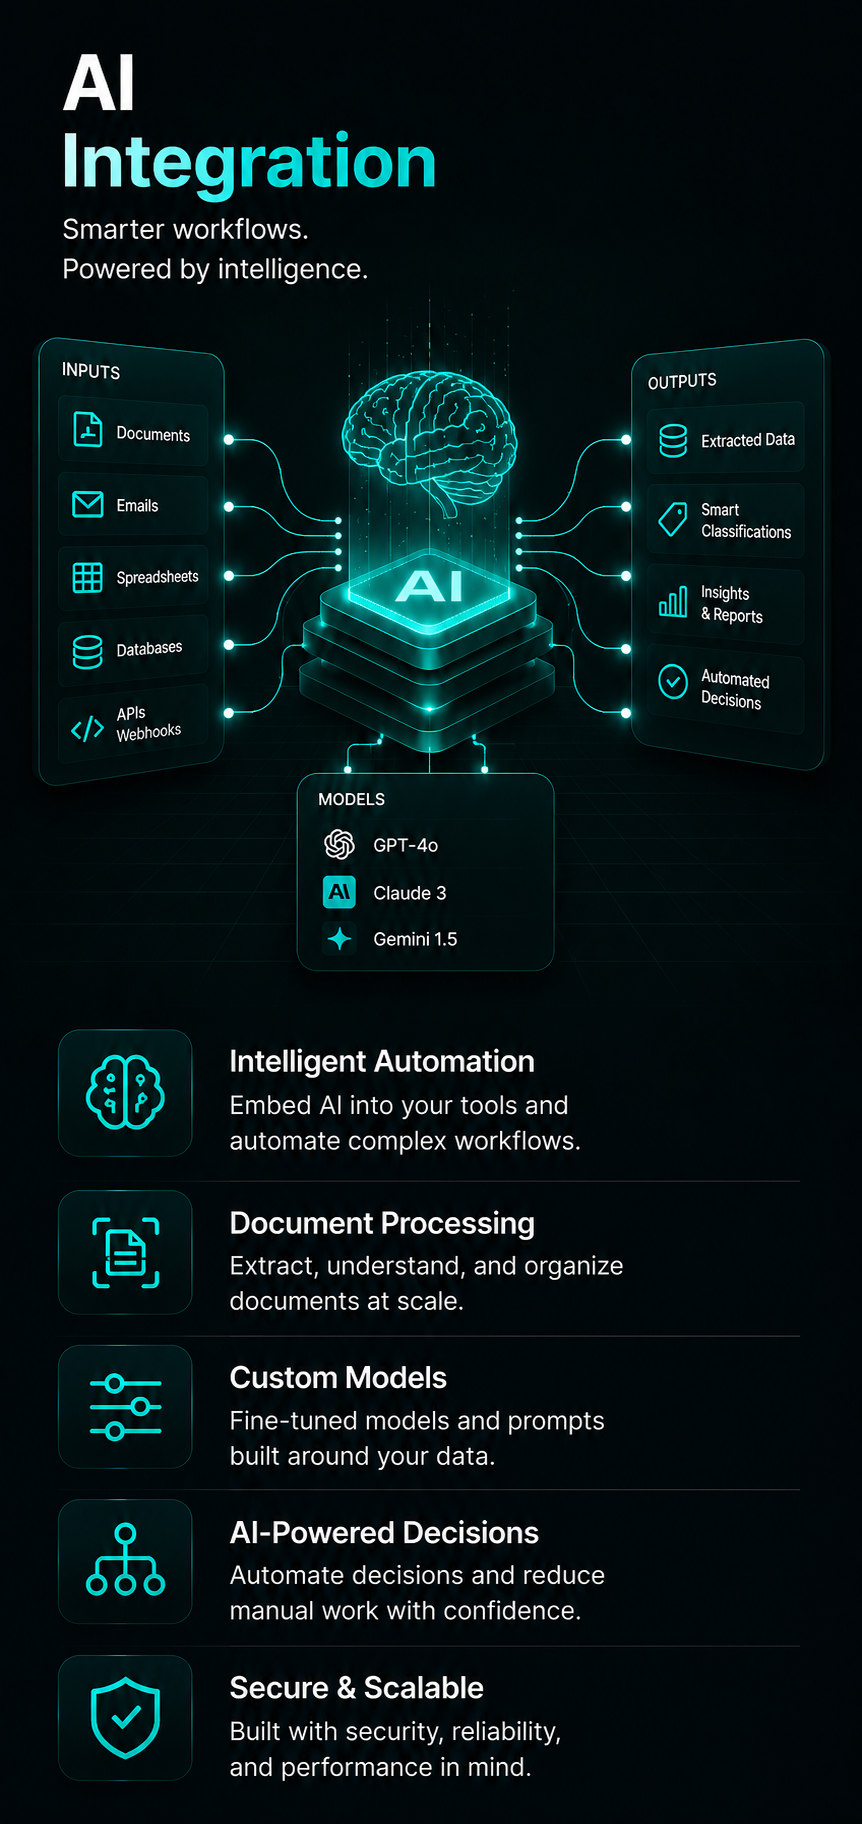
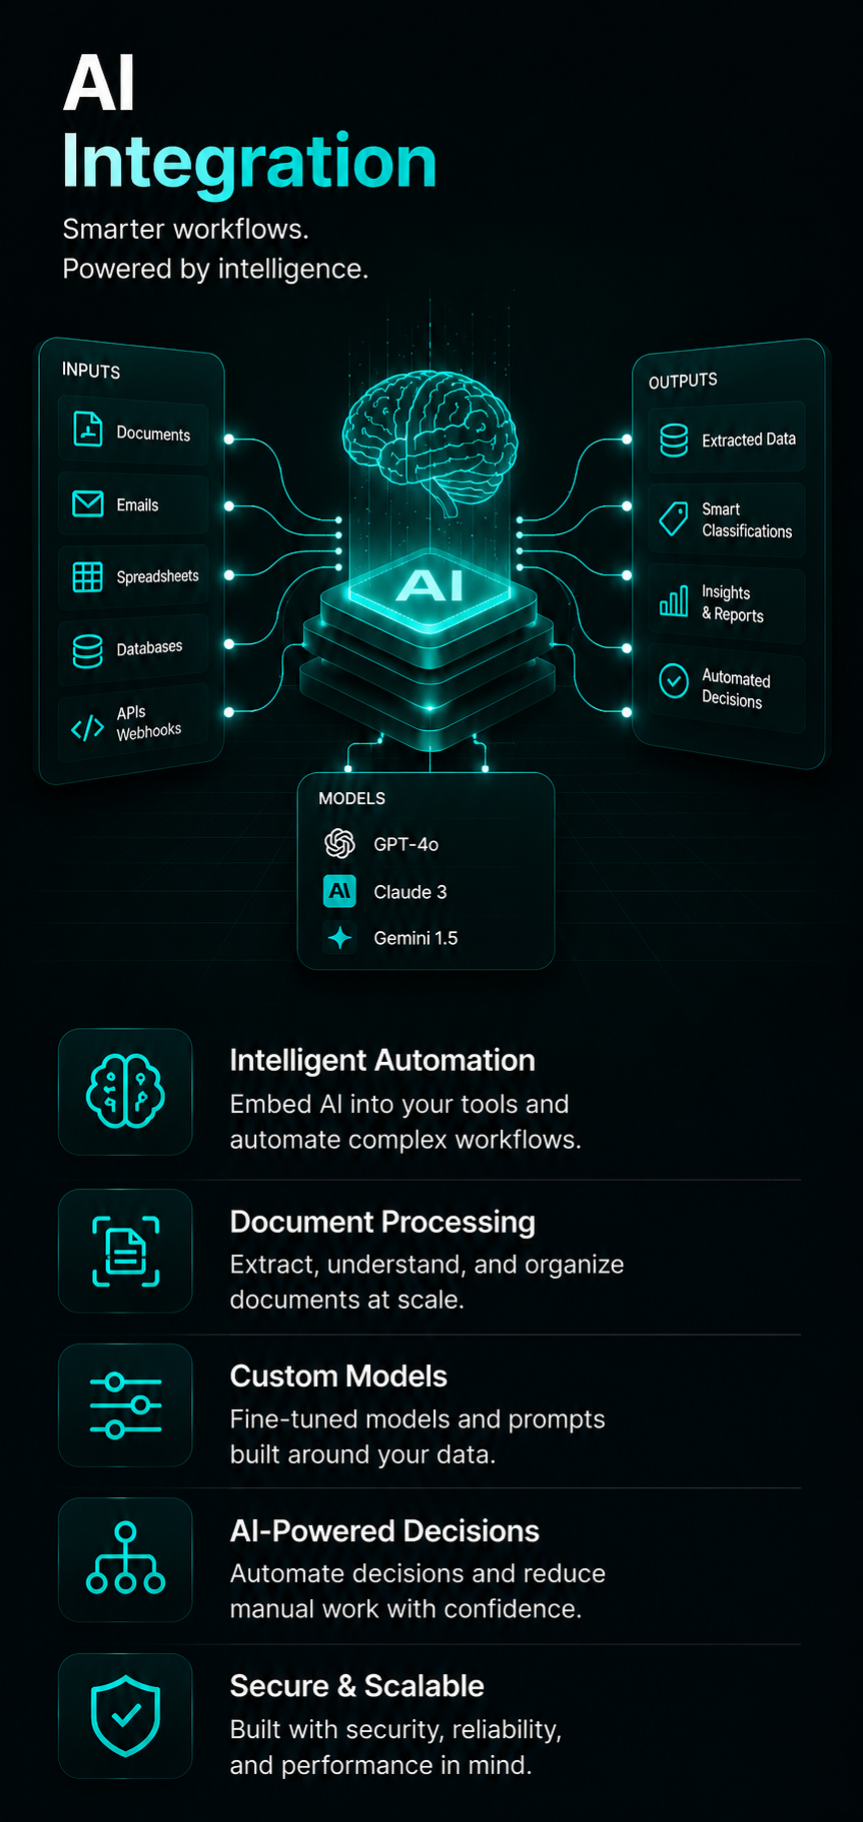
.

diff --git a/src/app/page.tsx b/src/app/page.tsx
@@ -282,6 +282,8 @@ const HeroImageSlider = () => {
   const [prevIndex, setPrevIndex] = useState<number | null>(null);
   const [progress, setProgress] = useState(0);
   const [held, setHeld] = useState(false);
+  const [hasEnteredView, setHasEnteredView] = useState(false);   // ← new
+  const containerRef = useRef<HTMLDivElement>(null);   // ← new
 
   const aspectCacheRef = useRef<Record<string, string>>({});
   const [mobileAspect, setMobileAspect] = useState<string>("3 / 4"); // fallback while loading
@@ -290,6 +292,21 @@ const HeroImageSlider = () => {
   const pausedElapsedRef = useRef<number>(0);
   const holdTimerRef = useRef<ReturnType<typeof setTimeout> | null>(null);
   const isPointerDownRef = useRef(false);
+
+  useEffect(() => {
+    if (!containerRef.current || hasEnteredView) return;
+    const observer = new IntersectionObserver(
+      ([entry]) => {
+        if (entry.isIntersecting) {
+          setHasEnteredView(true);
+          observer.disconnect();   // fire once, never again
+        }
+      },
+      { threshold: 0 }   // any portion visible
+    );
+    observer.observe(containerRef.current);
+    return () => observer.disconnect();
+  }, [hasEnteredView]);
 
   useEffect(() => {
     if (!isMobile) return;
@@ -317,7 +334,7 @@ const HeroImageSlider = () => {
 
   // main progress driver — runs whenever not held
   useEffect(() => {
-    if (held) return;
+    if (held || !hasEnteredView) return;   // ← added !hasEnteredView
     startRef.current = performance.now() - pausedElapsedRef.current;
     const tick = (now: number) => {
       const elapsed = now - startRef.current;
@@ -332,7 +349,7 @@ const HeroImageSlider = () => {
     };
     rafRef.current = requestAnimationFrame(tick);
     return () => cancelAnimationFrame(rafRef.current);
-  }, [index, held]);
+  }, [index, held, hasEnteredView]);   // ← add hasEnteredView to deps
 
   // reset paused-elapsed whenever image actually changes
   useEffect(() => { pausedElapsedRef.current = 0; }, [index]);
@@ -376,7 +393,7 @@ const HeroImageSlider = () => {
   const getSrc = (i: number) => (isMobile ? HERO_IMAGES[i].srcMobile : HERO_IMAGES[i].src);
 
   return (
-    <div className="w-full flex flex-col items-center" style={{ padding: "0 5vw", marginTop: "clamp(2rem, 6vh, 4rem)", gap: "0.9rem" }}>
+    <div ref={containerRef} className="w-full flex flex-col items-center" style={{ padding: "0 5vw", marginTop: "clamp(2rem, 6vh, 4rem)", gap: "0.9rem" }}>
 
       <div
         onPointerDown={handlePointerDown}
@@ -596,114 +613,113 @@ const HeroSection = () => {
           <source src="/medium.mp4" type="video/mp4" />
         </video>
       </div> */}
-      <HeroImageSlider />
     </DarkSection>
   );
 };
 
-// ── Services Section ──────────────────────────────────────────────────────────
-const ShineCard = ({ onDone }: { onDone: () => void }) => {
-  const [progress, setProgress] = useState(0);
-  const rafRef = useRef<number>(0);
-  const startRef = useRef<number>(0);
-  const DURATION = 1200;
+// // ── Services Section ──────────────────────────────────────────────────────────
+// const ShineCard = ({ onDone }: { onDone: () => void }) => {
+//   const [progress, setProgress] = useState(0);
+//   const rafRef = useRef<number>(0);
+//   const startRef = useRef<number>(0);
+//   const DURATION = 1200;
 
-  useEffect(() => {
-    startRef.current = performance.now();
-    const animate = (now: number) => {
-      const p = (now - startRef.current) / DURATION;
-      if (p >= 1) { setProgress(1); onDone(); return; }
-      setProgress(p);
-      rafRef.current = requestAnimationFrame(animate);
-    };
-    rafRef.current = requestAnimationFrame(animate);
-    return () => cancelAnimationFrame(rafRef.current);
-  }, []);
+//   useEffect(() => {
+//     startRef.current = performance.now();
+//     const animate = (now: number) => {
+//       const p = (now - startRef.current) / DURATION;
+//       if (p >= 1) { setProgress(1); onDone(); return; }
+//       setProgress(p);
+//       rafRef.current = requestAnimationFrame(animate);
+//     };
+//     rafRef.current = requestAnimationFrame(animate);
+//     return () => cancelAnimationFrame(rafRef.current);
+//   }, []);
 
-  return (
-    <div style={{
-      position: "absolute",
-      inset: 0,
-      pointerEvents: "none",
-      zIndex: 2,
-      overflow: "hidden",
-    }}>
-      <div style={{
-        position: "absolute",
-        top: "-150%",
-        left: "-100%",
-        width: "80%",
-        height: "400%",
-        background: "linear-gradient(105deg, transparent 25%, rgba(255,255,255,0.07) 50%, transparent 75%)",
-        transform: `translateX(${progress * 380}%) skewX(-15deg)`,
-      }} />
-    </div>
-  );
-};
+//   return (
+//     <div style={{
+//       position: "absolute",
+//       inset: 0,
+//       pointerEvents: "none",
+//       zIndex: 2,
+//       overflow: "hidden",
+//     }}>
+//       <div style={{
+//         position: "absolute",
+//         top: "-150%",
+//         left: "-100%",
+//         width: "80%",
+//         height: "400%",
+//         background: "linear-gradient(105deg, transparent 25%, rgba(255,255,255,0.07) 50%, transparent 75%)",
+//         transform: `translateX(${progress * 380}%) skewX(-15deg)`,
+//       }} />
+//     </div>
+//   );
+// };
 
-const ServicesGrid = () => {
-  const [activeIndex, setActiveIndex] = useState(0);
-  const timeoutRef = useRef<ReturnType<typeof setTimeout> | null>(null);
+// const ServicesGrid = () => {
+//   const [activeIndex, setActiveIndex] = useState(0);
+//   const timeoutRef = useRef<ReturnType<typeof setTimeout> | null>(null);
 
-  const advance = (current: number) => {
-    const next = current + 1;
-    if (next >= SERVICES.length) {
-      timeoutRef.current = setTimeout(() => setActiveIndex(0), 5000);
-    } else {
-      setActiveIndex(next);
-    }
-  };
-  useEffect(() => {
-    return () => {
-      if (timeoutRef.current) clearTimeout(timeoutRef.current);
-    };
-  }, []);
-  return (
-    <div
-      className="grid grid-cols-1 md:grid-cols-3"
-      style={{ gap: "clamp(1.5rem, 4vw, 2.5rem)" }}
-    >
-      {SERVICES.map((s, i) => (
-        <div
-          key={s.title}
-          style={{ position: "relative", overflow: "hidden" }}
-          className="flex flex-col gap-4"
-        >
-          {activeIndex === i && <ShineCard onDone={() => advance(i)} />}
-          <div style={{ color: s.color }}>{s.icon}</div>
-          <h3
-            className="font-semibold"
-            style={{
-              fontSize: "1.05rem",
-              color: "#ffffff",
-              letterSpacing: "-0.01em",
-            }}
-          >
-            {s.title}
-          </h3>
-          <p
-            className="leading-relaxed"
-            style={{
-              fontSize: "0.88rem",
-              color: "rgba(255,255,255,0.45)",
-              lineHeight: 1.75,
-              textAlign: "justify",
-            }}
-          >
-            {s.desc}
-          </p>
-          <a
-            href="/services"
-            className="inline-flex items-center gap-1 text-xs font-semibold mt-2 transition-opacity hover:opacity-50"
-            style={{ color: "rgba(255,255,255,0.7)", letterSpacing: "0.06em" }}
-          >
-            Learn more <ArrowRight size={12} />
-          </a>
-        </div>
-      ))}
-    </div>
-  );
-};
+//   const advance = (current: number) => {
+//     const next = current + 1;
+//     if (next >= SERVICES.length) {
+//       timeoutRef.current = setTimeout(() => setActiveIndex(0), 5000);
+//     } else {
+//       setActiveIndex(next);
+//     }
+//   };
+//   useEffect(() => {
+//     return () => {
+//       if (timeoutRef.current) clearTimeout(timeoutRef.current);
+//     };
+//   }, []);
+//   return (
+//     <div
+//       className="grid grid-cols-1 md:grid-cols-3"
+//       style={{ gap: "clamp(1.5rem, 4vw, 2.5rem)" }}
+//     >
+//       {SERVICES.map((s, i) => (
+//         <div
+//           key={s.title}
+//           style={{ position: "relative", overflow: "hidden" }}
+//           className="flex flex-col gap-4"
+//         >
+//           {activeIndex === i && <ShineCard onDone={() => advance(i)} />}
+//           <div style={{ color: s.color }}>{s.icon}</div>
+//           <h3
+//             className="font-semibold"
+//             style={{
+//               fontSize: "1.05rem",
+//               color: "#ffffff",
+//               letterSpacing: "-0.01em",
+//             }}
+//           >
+//             {s.title}
+//           </h3>
+//           <p
+//             className="leading-relaxed"
+//             style={{
+//               fontSize: "0.88rem",
+//               color: "rgba(255,255,255,0.45)",
+//               lineHeight: 1.75,
+//               textAlign: "justify",
+//             }}
+//           >
+//             {s.desc}
+//           </p>
+//           <a
+//             href="/services"
+//             className="inline-flex items-center gap-1 text-xs font-semibold mt-2 transition-opacity hover:opacity-50"
+//             style={{ color: "rgba(255,255,255,0.7)", letterSpacing: "0.06em" }}
+//           >
+//             Learn more <ArrowRight size={12} />
+//           </a>
+//         </div>
+//       ))}
+//     </div>
+//   );
+// };
 
 const ServicesSection = () => {
   const contentRef = useRef<HTMLDivElement>(null);
@@ -760,7 +776,7 @@ const ServicesSection = () => {
         >
           Six ways we eliminate the unseen.
         </h2>
-        <ServicesGrid />
+        <HeroImageSlider />
       </div>
     </DarkSection>
   );
